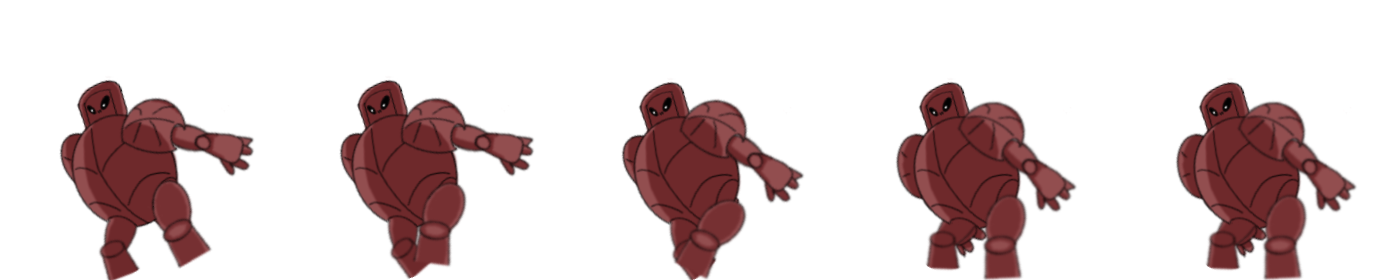
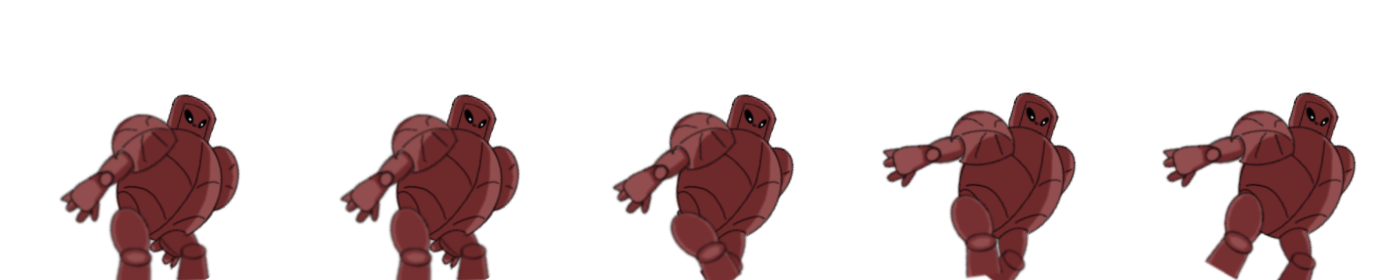
Loadsクラス：ビッグドールの読み込み処理を追加しました Resource：新規素材を追加しました

diff --git a/AMG08_INNOCENT_REAPER/BigDoll.h b/AMG08_INNOCENT_REAPER/BigDoll.h
@@ -1,0 +1,22 @@
+#pragma once
+#include "EnemyBase.h"
+
+namespace inr {
+
+	namespace enemy {
+		constexpr auto BIG_IMAGE = 280;
+	}
+
+	class BigDoll : public EnemyBase {
+	public:
+		BigDoll(Game& game);
+		~BigDoll();
+
+		void Init() override;
+		void Process() override;
+		void Draw() override;
+	private:
+
+	};
+}
+

diff --git a/AMG08_INNOCENT_REAPER/BigDoll.cpp b/AMG08_INNOCENT_REAPER/BigDoll.cpp
@@ -1,0 +1,24 @@
+#include "BigDoll.h"
+
+namespace inr {
+
+	BigDoll::BigDoll(Game& game) : EnemyBase(game) {
+
+	}
+
+	BigDoll::~BigDoll() {
+
+	}
+
+	void BigDoll::Init() {
+
+	}
+
+	void BigDoll::Process() {
+
+	}
+
+	void BigDoll::Draw() {
+
+	}
+}
